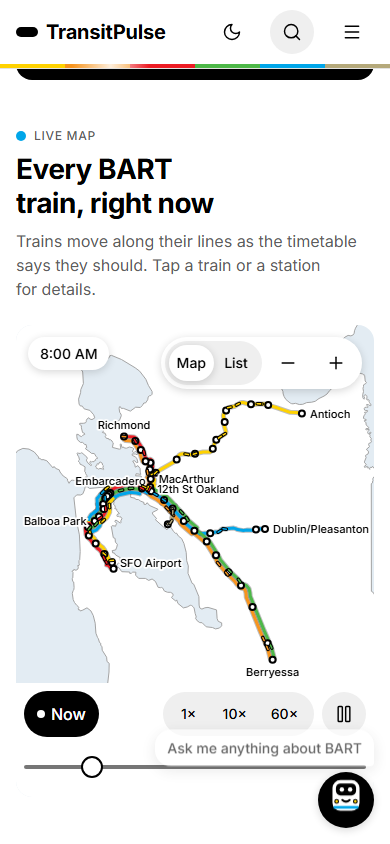
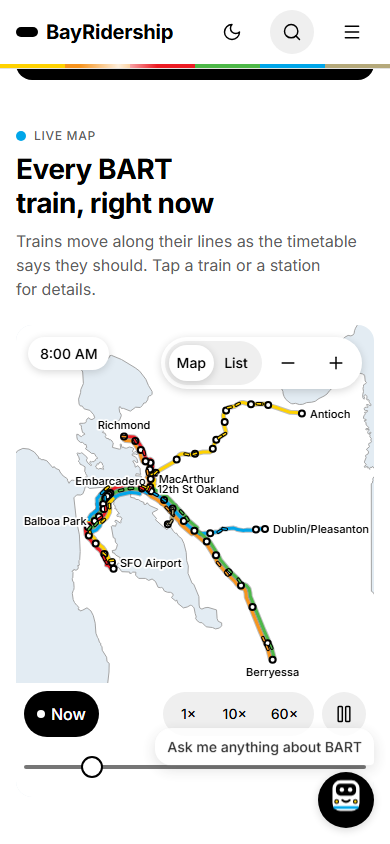
The site's name is BayRidership: pages, share tags and screenshots; its address is braedynthompson.com/bayridership

Changed region(s): [[0.4308, 0.8626, 0.9231, 0.9242], [0.1231, 0.0308, 0.4615, 0.0924], [0.8615, 0.9242, 0.9231, 0.955]]

diff --git a/web/index.html b/web/index.html
@@ -3,20 +3,20 @@
   <head>
     <meta charset="utf-8" />
     <meta name="viewport" content="width=device-width, initial-scale=1, viewport-fit=cover" />
-    <title>TransitPulse · Bay Area transit, live</title>
+    <title>BayRidership · Bay Area transit, live</title>
     <meta
       name="description"
       content="Every BART train on a live map, plus ridership trends, forecasts and an AI analyst for Bay Area transit data."
     />
     <meta name="theme-color" content="#ffffff" />
-    <meta property="og:title" content="TransitPulse · Bay Area transit, live" />
+    <meta property="og:title" content="BayRidership · Bay Area transit, live" />
     <meta property="og:description" content="Every BART train on a live map, plus ridership trends, forecasts and an AI analyst for Bay Area transit data." />
     <meta property="og:type" content="website" />
-    <meta property="og:url" content="https://braedynthompson.com/transitpulse/" />
-    <meta property="og:image" content="https://braedynthompson.com/transitpulse/img/og.png" />
+    <meta property="og:url" content="https://braedynthompson.com/bayridership/" />
+    <meta property="og:image" content="https://braedynthompson.com/bayridership/img/og.png" />
     <meta property="og:image:width" content="1200" />
     <meta property="og:image:height" content="630" />
-    <meta property="og:image:alt" content="The TransitPulse live map: BART trains on their coloured lines around the Bay." />
+    <meta property="og:image:alt" content="The BayRidership live map: BART trains on their coloured lines around the Bay." />
     <meta name="twitter:card" content="summary_large_image" />
     <!-- A Looker Studio embed URL (https://lookerstudio.google.com/embed/...) shows a Dashboard card in Trends; see bi/README.md -->
     <meta name="tp-looker-url" content="" />
@@ -76,7 +76,7 @@
 
     <header class="nav" data-nav>
       <div class="container nav__inner">
-        <a class="wordmark" href="#top" aria-label="TransitPulse home"><span class="wordmark__mark" aria-hidden="true"></span>TransitPulse</a>
+        <a class="wordmark" href="#top" aria-label="BayRidership home"><span class="wordmark__mark" aria-hidden="true"></span>BayRidership</a>
         <nav aria-label="Sections">
           <ul class="nav__links">
             <li><a href="#map">Map</a></li>
@@ -103,7 +103,7 @@
 
     <div class="nav-overlay" id="nav-overlay" role="dialog" aria-modal="true" aria-label="Menu" hidden data-menu>
       <div class="container nav-overlay__head">
-        <span class="wordmark"><span class="wordmark__mark" aria-hidden="true"></span>TransitPulse</span>
+        <span class="wordmark"><span class="wordmark__mark" aria-hidden="true"></span>BayRidership</span>
         <button class="icon-btn icon-btn--plain" type="button" aria-label="Close menu" data-menu-close>
           <svg class="icon" aria-hidden="true"><use href="#i-x" /></svg>
         </button>
@@ -138,7 +138,7 @@
               <li>Data through <strong data-live-through>—</strong></li>
             </ul>
             <div class="hero__actions">
-              <button class="btn btn--primary" type="button" data-ask-open aria-controls="ask-panel" aria-expanded="false">Ask TransitPulse</button>
+              <button class="btn btn--primary" type="button" data-ask-open aria-controls="ask-panel" aria-expanded="false">Ask BayRidership</button>
               <a class="btn btn--subtle" href="#map">See the live map</a>
             </div>
           </div>
@@ -380,7 +380,7 @@
               The list isn't final: the board still has to vote on which stations or segments would close.
             </p>
             <p data-closures-neutral>
-              TransitPulse doesn't take a position on the measure. The verdicts below weigh ridership, recovery and distance;
+              BayRidership doesn't take a position on the measure. The verdicts below weigh ridership, recovery and distance;
               they can't see cost, fairness or what riders would do instead.
             </p>
           </div>
@@ -488,7 +488,7 @@
               </div>
             </details>
             <details>
-              <summary>How does "Ask TransitPulse" answer questions?<svg class="icon" aria-hidden="true"><use href="#i-chevron-down" /></svg></summary>
+              <summary>How does "Ask BayRidership" answer questions?<svg class="icon" aria-hidden="true"><use href="#i-chevron-down" /></svg></summary>
               <div class="faq__body">
                 <p>
                   It writes a read-only SQL query against the ridership warehouse, runs it, and shows you the answer
@@ -542,10 +542,10 @@
       </div>
     </footer>
 
-    <!-- Ask TransitPulse: a launcher in the corner opens a side panel (full screen on phones) -->
-    <button class="ask-launcher" type="button" data-ask-open aria-controls="ask-panel" aria-expanded="false" title="Ask TransitPulse (press /)">
+    <!-- Ask BayRidership: a launcher in the corner opens a side panel (full screen on phones) -->
+    <button class="ask-launcher" type="button" data-ask-open aria-controls="ask-panel" aria-expanded="false" title="Ask BayRidership (press /)">
       <svg class="mascot" aria-hidden="true"><use href="#i-mascot" /></svg>
-      <span class="ask-launcher__label">Ask TransitPulse</span>
+      <span class="ask-launcher__label">Ask BayRidership</span>
       <span class="ask-launcher__bubble" aria-hidden="true">Ask me anything about BART</span>
     </button>
 
@@ -553,7 +553,7 @@
       <div class="ask-panel__head">
         <svg class="mascot" aria-hidden="true"><use href="#i-mascot" /></svg>
         <div class="ask-panel__heading">
-          <h2 class="ask-panel__title" id="ask-panel-title">Ask TransitPulse</h2>
+          <h2 class="ask-panel__title" id="ask-panel-title">Ask BayRidership</h2>
           <p class="caption">BART and Bay Wheels data, in plain English</p>
         </div>
         <button class="icon-btn icon-btn--plain" type="button" aria-label="Close" data-ask-close>

diff --git a/web/styleguide.html b/web/styleguide.html
@@ -3,8 +3,8 @@
   <head>
     <meta charset="utf-8" />
     <meta name="viewport" content="width=device-width, initial-scale=1, viewport-fit=cover" />
-    <title>Style guide · TransitPulse</title>
-    <meta name="description" content="Every TransitPulse design token and component on one page, for checks against DESIGN.md." />
+    <title>Style guide · BayRidership</title>
+    <meta name="description" content="Every BayRidership design token and component on one page, for checks against DESIGN.md." />
     <meta name="robots" content="noindex" />
     <meta name="theme-color" content="#ffffff" />
     <link rel="icon" href="img/favicon.svg" type="image/svg+xml" />
@@ -89,7 +89,7 @@
     <a class="skip-link" href="#tokens">Skip to tokens</a>
     <header class="nav is-scrolled">
       <div class="container nav__inner">
-        <a class="wordmark" href="./" aria-label="TransitPulse home"><span class="wordmark__mark" aria-hidden="true"></span>TransitPulse</a>
+        <a class="wordmark" href="./" aria-label="BayRidership home"><span class="wordmark__mark" aria-hidden="true"></span>BayRidership</a>
         <button class="icon-btn icon-btn--plain nav__theme" type="button" data-theme-toggle aria-pressed="false" aria-label="Dark mode">
           <svg class="icon icon--sun" aria-hidden="true"><use href="#i-sun" /></svg><svg class="icon icon--moon" aria-hidden="true"><use href="#i-moon" /></svg>
         </button>
@@ -255,13 +255,13 @@
           <p class="caption">Fixed in the bottom-right corner on the site; the panel is a side panel from 768 px, full screen below.</p>
           <button class="ask-launcher ask-launcher--preview" type="button">
             <svg class="mascot" aria-hidden="true"><use href="#i-mascot" /></svg>
-            <span class="ask-launcher__label">Ask TransitPulse</span>
+            <span class="ask-launcher__label">Ask BayRidership</span>
           </button>
           <div class="ask-panel ask-panel--preview">
             <div class="ask-panel__head">
               <svg class="mascot" aria-hidden="true"><use href="#i-mascot" /></svg>
               <div class="ask-panel__heading">
-                <p class="ask-panel__title">Ask TransitPulse</p>
+                <p class="ask-panel__title">Ask BayRidership</p>
                 <p class="caption">BART and Bay Wheels data, in plain English</p>
               </div>
               <button class="icon-btn icon-btn--plain" type="button" aria-label="Close"><svg class="icon" aria-hidden="true"><use href="#i-x" /></svg></button>
@@ -483,7 +483,7 @@ GROUP BY 1 ORDER BY 2 DESC LIMIT 5</code></pre>
 
     <footer class="footer">
       <div class="container footer__bottom footer__muted">
-        <span>TransitPulse style guide. Design source: docs/DESIGN.md.</span>
+        <span>BayRidership style guide. Design source: docs/DESIGN.md.</span>
         <a href="./">Back to the site</a>
       </div>
     </footer>

diff --git a/tests/web/site.spec.js b/tests/web/site.spec.js
@@ -159,12 +159,12 @@ test("respects reduced motion", async ({ page }) => {
 test("meta: open graph tags and a 1200x630 image", async ({ page, request }) => {
   await page.goto("/");
   const og = (p) => page.locator(`meta[property="og:${p}"]`);
-  await expect(og("title")).toHaveAttribute("content", /TransitPulse/);
+  await expect(og("title")).toHaveAttribute("content", /BayRidership/);
   await expect(og("description")).toHaveAttribute("content", /BART/);
   await expect(og("type")).toHaveAttribute("content", "website");
-  await expect(og("url")).toHaveAttribute("content", "https://braedynthompson.com/transitpulse/");
+  await expect(og("url")).toHaveAttribute("content", "https://braedynthompson.com/bayridership/");
   // absolute, as crawlers need: the public copy of the file checked below
-  await expect(og("image")).toHaveAttribute("content", "https://braedynthompson.com/transitpulse/img/og.png");
+  await expect(og("image")).toHaveAttribute("content", "https://braedynthompson.com/bayridership/img/og.png");
   await expect(og("image:width")).toHaveAttribute("content", "1200");
   await expect(og("image:height")).toHaveAttribute("content", "630");
   await expect(og("image:alt")).toHaveAttribute("content", /map/);

diff --git a/web/js/ask.js b/web/js/ask.js
@@ -1,4 +1,4 @@
-// Ask TransitPulse (IMPLEMENTATION_PLAN F6). Sends the question to POST /api/ask and renders the streamed
+// Ask BayRidership (IMPLEMENTATION_PLAN F6). Sends the question to POST /api/ask and renders the streamed
 // progress events (thinking → sql → rows → answer, or a refusal/error). While the agent is off the API answers 503
 // and this shows a friendly "not connected yet" message. The last 5 answers and refusals (never errors) are kept in
 // sessionStorage and shown in the Ask panel after a reload; "Show SQL" has a copy button.
@@ -155,7 +155,7 @@ export function initAsk(card, result, history) {
     input.value = ""; // a chat box: the question is echoed above the answer
     if (isStaticSite()) {
       result.innerHTML = message(
-        "The analyst needs TransitPulse's live server, which this public snapshot doesn't run. " +
+        "The analyst needs BayRidership's live server, which this public snapshot doesn't run. " +
           "Every number on this page is real warehouse data, as of the date shown in each section.",
       );
       return;

diff --git a/web/js/trends.js b/web/js/trends.js
@@ -408,7 +408,7 @@ export function initDashboard(slot) {
       <h3 id="dashboard-title">Dashboard</h3>
       <p class="card__takeaway">The same ridership marts in Looker Studio, with filters to explore them.</p>
     </div>
-    <div class="dashboard__frame"><iframe src="${esc(url)}" title="TransitPulse ridership dashboard (Looker Studio)" loading="lazy" allowfullscreen></iframe></div>
+    <div class="dashboard__frame"><iframe src="${esc(url)}" title="BayRidership ridership dashboard (Looker Studio)" loading="lazy" allowfullscreen></iframe></div>
     <a class="btn btn--subtle dashboard__open" href="${esc(url)}" target="_blank" rel="noopener">Open dashboard<svg class="icon" aria-hidden="true"><use href="#i-arrow-up-right"/></svg></a>
     <p class="caption chart-card__source">A Looker Studio report built on the same BigQuery marts as this page.</p>
   </article>`;

diff --git a/web/js/util/api.js b/web/js/util/api.js
@@ -1,5 +1,5 @@
 // Where the API lives. Same origin by default (`api/...` relative to the page). Pages hosted elsewhere (the
-// portfolio copy at braedynthompson.com/transitpulse/) carry <meta name="tp-api-base" content="https://…/">,
+// portfolio copy at braedynthompson.com/bayridership/) carry <meta name="tp-api-base" content="https://…/">,
 // written by pipeline/webexport.py --api-base, and call the API on Cloud Run instead.
 export function apiBase(doc = globalThis.document) {
   const base = doc?.querySelector?.('meta[name="tp-api-base"]')?.content?.trim();

diff --git a/web/js/forecast.js b/web/js/forecast.js
@@ -138,7 +138,7 @@ export function sourceLine(data) {
   const through =
     `Forecast from data through ${formatDate(data.data_through)}. It covers ${formatDateRange(start, end)}, ` +
     "the 14 days after the latest ridership BART has published.";
-  if (!m) return `${through} Source: BART hourly ridership; TransitPulse forecasting model.`;
+  if (!m) return `${through} Source: BART hourly ridership; BayRidership forecasting model.`;
   const iv = bandInterval(m);
   const label = rangeLabel(m);
   const what = !iv.calibrated

diff --git a/tests/deploy/test_container.py b/tests/deploy/test_container.py
@@ -107,7 +107,7 @@ def test_container_serves_site_and_health(server):
     home = httpx.get(f"{server}/")
     assert home.status_code == 200
     assert "text/html" in home.headers["content-type"]
-    assert "TransitPulse" in home.text
+    assert "BayRidership" in home.text
     assert home.headers["cache-control"] == "no-cache"
 
     data = httpx.get(f"{server}/data/network.json")

diff --git a/tests/compose/test_compose_up.py b/tests/compose/test_compose_up.py
@@ -41,7 +41,7 @@ def base() -> Iterator[str]:
 def test_health_and_site(base):
     assert httpx.get(f"{base}/api/health").status_code == 200
     home = httpx.get(f"{base}/")
-    assert home.status_code == 200 and "TransitPulse" in home.text
+    assert home.status_code == 200 and "BayRidership" in home.text
 
 
 def test_kpis_follow_the_warehouse(base):
